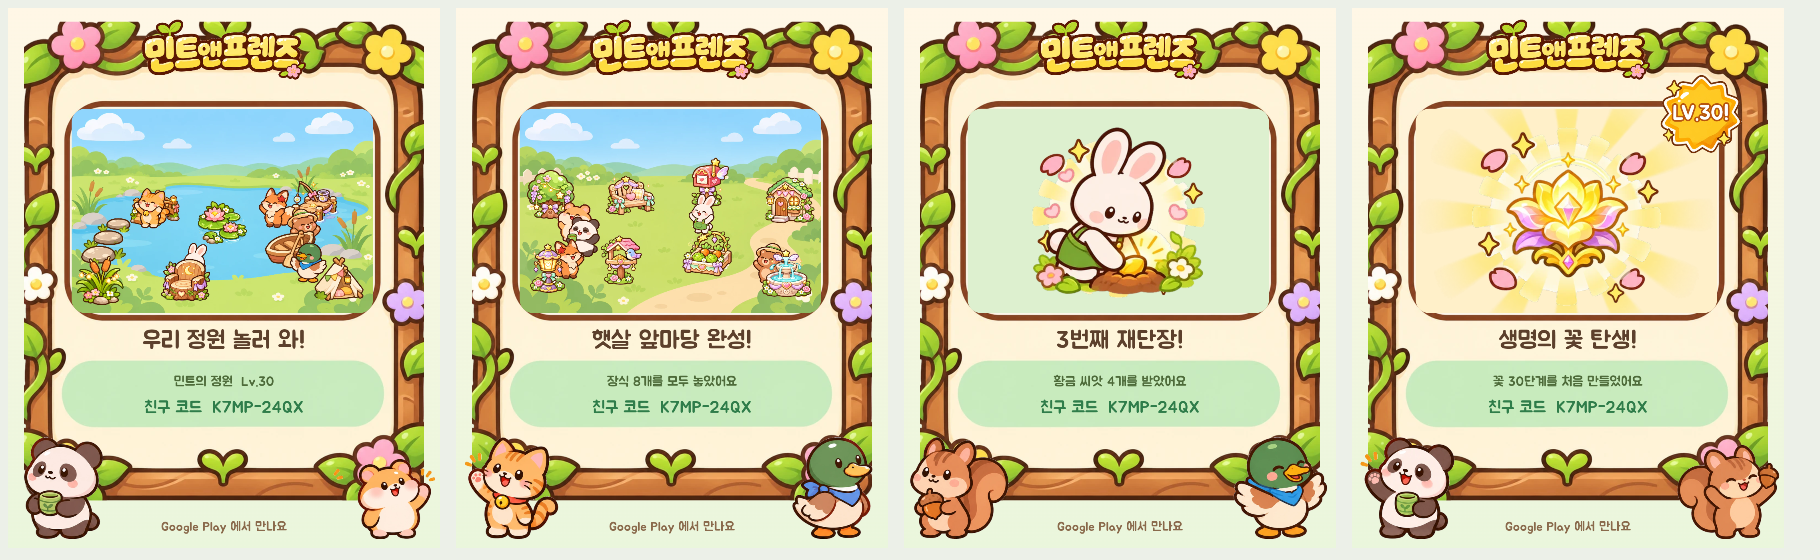
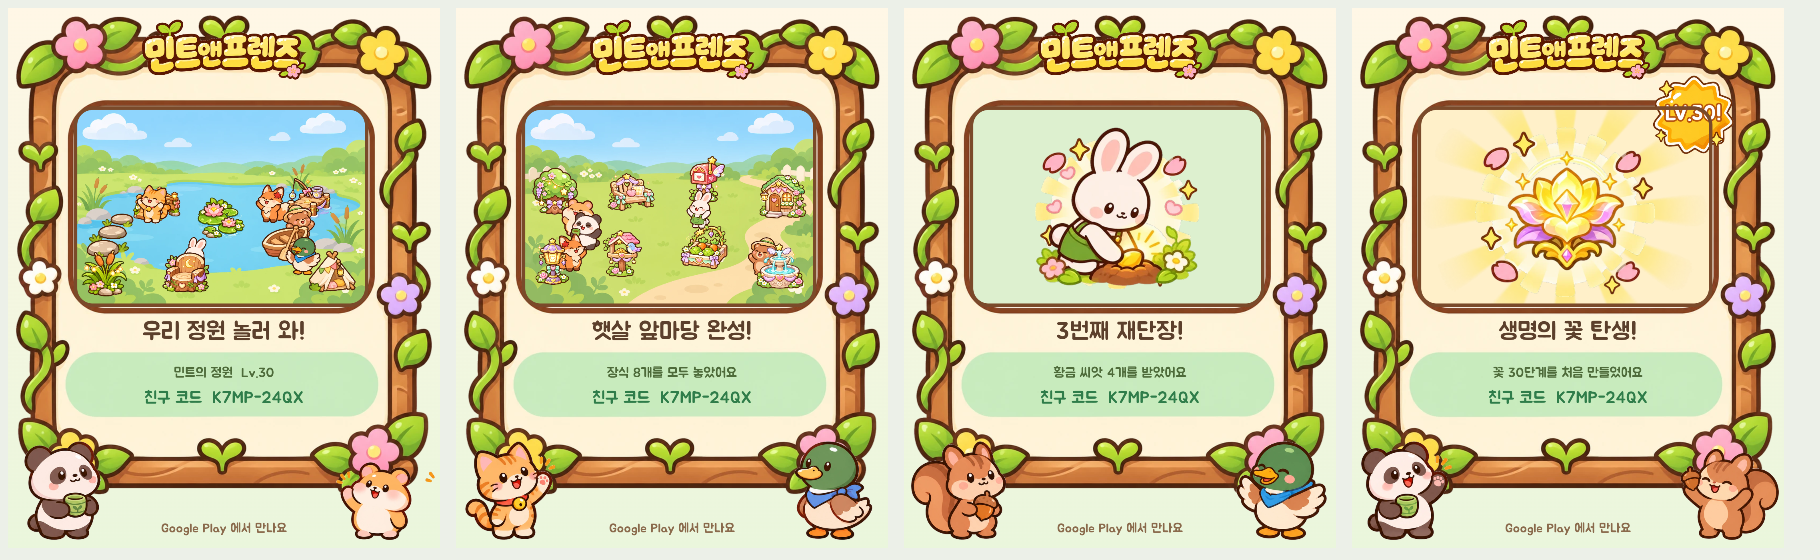
Share card: whole frame visible, photo clipped to the frame window radius with the brown rim redrawn, corner friends face inward
Claude-Session: https://claude.ai/code/session_011jC4ZDqrEaYqEhudpbFCaM

diff --git a/lib/ui/share_card.dart b/lib/ui/share_card.dart
@@ -22,10 +22,13 @@ class ShareCard {
   static const double w = 1080, h = 1350;
 
   // 프레임 그림(share_frame, 1024 정사각) 안에서 그림 부분 · 사진 창 · 글자 띠 위치.
-  static const Rect _frameSrc = Rect.fromLTRB(145, 77, 875, 951);
-  static const Rect _windowSrc = Rect.fromLTRB(232, 236, 782, 609);
+  // 프레임 그림 전체 (잎 · 꽃 끝까지, 잘리지 않게) · 사진 창 갈색 선 안쪽 · 글자 띠.
+  static const Rect _frameSrc = Rect.fromLTRB(121, 62, 903, 963);
+  static const Rect _windowSrc = Rect.fromLTRB(235, 239, 778, 605);
+  static const double _windowRadiusSrc = 30;
   static const Rect _bandSrc = Rect.fromLTRB(214, 700, 812, 812);
-  static const double _frameX = 40, _frameY = 34, _frameW = 1000;
+  static const double _frameW = 1040, _frameX = (w - _frameW) / 2;
+  static const double _frameY = 18;
   static double get _s => _frameW / _frameSrc.width;
   static Rect _map(Rect r) => Rect.fromLTRB(
     _frameX + (r.left - _frameSrc.left) * _s,
@@ -139,6 +142,9 @@ class ShareCard {
     'nabi': 'frame',
   };
 
+  /// 오른쪽을 보고 있는 친구 그림 (나머지는 왼쪽을 본다).
+  static const List<String> _facingRight = ['bori_camera'];
+
   static List<String> _cornerPaths(GameState g, Random rng) {
     final ids = g.friends.toList()..shuffle(rng);
     if (ids.length < 2) ids.addAll(['bori', 'dubu']);
@@ -177,7 +183,9 @@ class ShareCard {
     final ox = dst.left + (dst.width - sw) / 2;
     final oy = dst.top + (dst.height - sh) / 2;
     c.save();
-    c.clipRRect(RRect.fromRectAndRadius(dst, const Radius.circular(34)));
+    c.clipRRect(
+      RRect.fromRectAndRadius(dst, Radius.circular(_windowRadiusSrc * _s)),
+    );
     if (bg != null) {
       _cover(c, bg, Rect.fromLTWH(ox, oy, sw, sh));
     } else {
@@ -288,7 +296,9 @@ class ShareCard {
               });
       case ShareKind.renew:
         c.save();
-        c.clipRRect(RRect.fromRectAndRadius(win, const Radius.circular(34)));
+        c.clipRRect(
+          RRect.fromRectAndRadius(win, Radius.circular(_windowRadiusSrc * _s)),
+        );
         c.drawRect(win, Paint()..color = const Color(0xFFDDF0CF));
         final halo = await _img(Art.frame('share_halo').path);
         if (halo != null) _fit(c, halo, win.deflate(10));
@@ -301,7 +311,9 @@ class ShareCard {
         final ch = chain ?? Chain.flower;
         final lv = Chains.maxLevel(ch);
         c.save();
-        c.clipRRect(RRect.fromRectAndRadius(win, const Radius.circular(34)));
+        c.clipRRect(
+          RRect.fromRectAndRadius(win, Radius.circular(_windowRadiusSrc * _s)),
+        );
         c.drawRect(win, Paint()..color = const Color(0xFFFFF0C9));
         final rays = await _img(Art.frame('rays').path);
         if (rays != null) _cover(c, rays, win);
@@ -350,6 +362,18 @@ class ShareCard {
         });
         sub = tr('share.legendSub', {'chain': chainName(ch), 'n': lv});
     }
+    // 사진 가장자리를 프레임의 갈색 창 테두리로 다시 덮는다 (모서리가 튀어나오지 않게)
+    c.drawRRect(
+      RRect.fromRectAndRadius(
+        win.inflate(3),
+        Radius.circular(_windowRadiusSrc * _s + 3),
+      ),
+      Paint()
+        ..style = PaintingStyle.stroke
+        ..strokeWidth = 9
+        ..color = const Color(0xFF7A4A2A),
+    );
+
     // 로고: 프레임 위쪽 나무 위
     final lang = L10n.instance.lang;
     final logo =
@@ -400,17 +424,32 @@ class ShareCard {
     _text(
       c,
       tr('share.store'),
-      const Offset(w / 2, 1296),
+      const Offset(w / 2, 1300),
       32,
       const Color(0xFF8A6A4C),
       maxW: 560,
     );
+    // 두 친구는 카드 안쪽(가운데)을 바라본다. 친구 그림은 대부분 왼쪽을 보고, 카메라 토끼만 오른쪽을 본다.
     final corners = _cornerPaths(game, rng);
+    bool facesRight(String path) => _facingRight.any(path.contains);
     final l = await _img(corners[0]);
     final r = await _img(corners[1]);
-    if (l != null) _fit(c, l, const Rect.fromLTWH(-6, 1040, 290, 305));
-    if (r != null)
-      _fit(c, r, const Rect.fromLTWH(796, 1040, 290, 305), flip: true);
+    if (l != null) {
+      _fit(
+        c,
+        l,
+        const Rect.fromLTWH(-4, 1046, 280, 300),
+        flip: !facesRight(corners[0]),
+      );
+    }
+    if (r != null) {
+      _fit(
+        c,
+        r,
+        const Rect.fromLTWH(804, 1046, 280, 300),
+        flip: facesRight(corners[1]),
+      );
+    }
 
     final pic = rec.endRecording();
     final img = await pic.toImage(w.toInt(), h.toInt());
